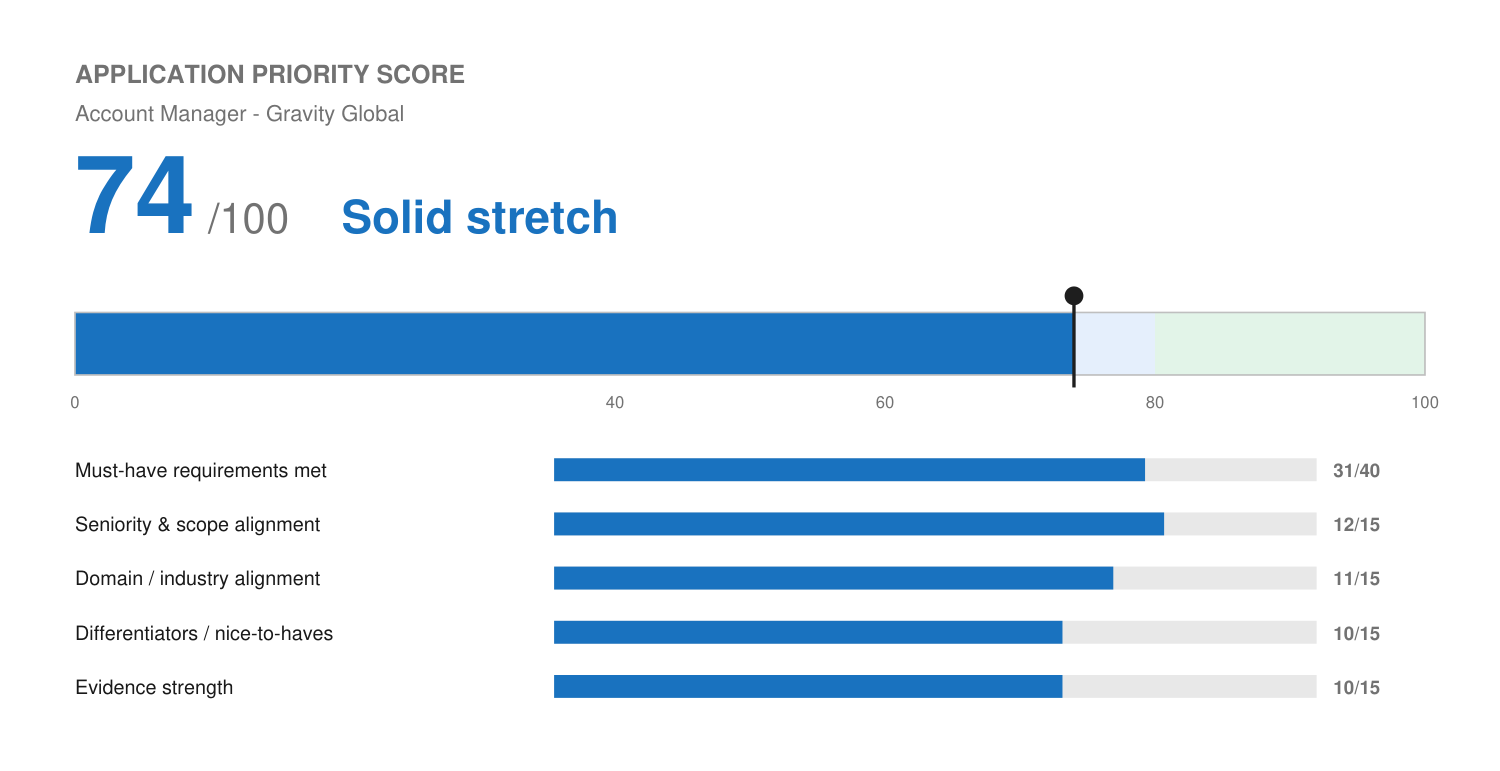
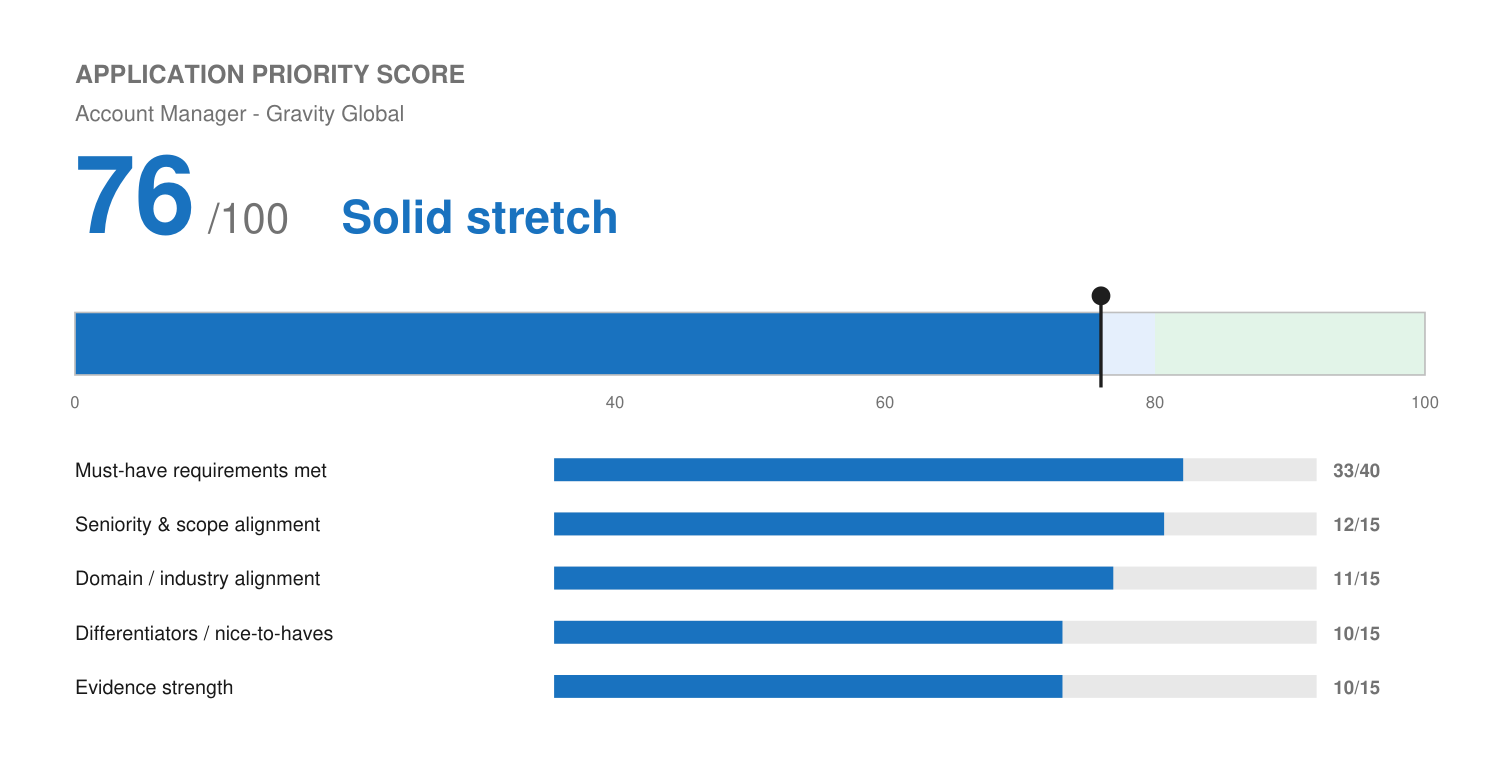
Profile: confirm travel OK and proposals/SOWs at every sales role since Accelo. Gravity Global resume updated (score 76); Supermove travel item resolved
Claude-Session: https://claude.ai/code/session_01Quz1wQsVbycgj85WWSYfNT

Changed region(s): [[0.7053, 0.3735, 0.736, 0.4981], [0.092, 0.1868, 0.1227, 0.3113], [0.7667, 0.5914, 0.7973, 0.6226]]

diff --git a/applications/gravity-global-account-manager/match-report.md b/applications/gravity-global-account-manager/match-report.md
@@ -11,7 +11,7 @@
 
 | Item | Classification | Status |
 | :--- | :--- | :--- |
-| Some travel for client meetings | Application-form | **Candidate confirmation needed** (same open item as Supermove). |
+| Some travel for client meetings | Application-form | Yes, confirmed Oct 2026. |
 | Salary expectation | Application-form | Mid-level agency AM; the $75K associate baseline is a floor here, not the answer. Needs Josh's number. |
 | Work authorization | Application-form | U.S. citizen, no sponsorship. |
 | Remote US | Application-form | Colorado-compatible. |
@@ -21,14 +21,14 @@ No knockouts.
 ## Application Priority Score
 
 ```
-🟡 Application Priority Score: 74 / 100 — Solid stretch
-[███████████████░░░░░]  74%
+🟡 Application Priority Score: 76 / 100 — Solid stretch
+[███████████████░░░░░]  76%
 ```
 *Internal decision aid, not a prediction of any employer's score or decision.* See `fit.png`.
 
 | Dimension | Score | Max | Why |
 | :--- | ---: | ---: | :--- |
-| Must-have requirements met | 31 | 40 | Client-facing strategy, scopes/budgets/timelines, senior stakeholders, delegation (Wix team lead), project tools all land. "3-5 yrs agency managing integrated campaigns across digital, creative, media" is partial: Level + Fetch & Funnel are ~10 months combined; Solenzo adds ~2.5 yrs of agency-style client work, but solo, not leading an agency account team with creative/media departments. |
+| Must-have requirements met | 33 | 40 | Travel and proposals/SOWs confirmed Oct 2026. Client-facing strategy, scopes/budgets/timelines, senior stakeholders, delegation (Wix team lead), project tools all land. "3-5 yrs agency managing integrated campaigns across digital, creative, media" is partial: Level + Fetch & Funnel are ~10 months combined; Solenzo adds ~2.5 yrs of agency-style client work, but solo, not leading an agency account team with creative/media departments. |
 | Seniority & scope alignment | 12 | 15 | Mid-level AM is a natural level. |
 | Domain / industry alignment | 11 | 15 | Agency and B2B marketing yes. No brand-campaign or large-agency creative production background. |
 | Differentiators / nice-to-haves | 10 | 15 | HubSpot (bonus), Asana/Monday.com, LinkedIn ABM, Meta certified, analytics. |
@@ -48,16 +48,15 @@ No knockouts.
 | Communication, senior stakeholders | Strong | QBRs, Accelo C-suite |
 | Monday.com / Asana / Airtable; HubSpot bonus | Strong | Asana, Monday.com, HubSpot |
 | Delegation, cross-functional | Strong | Wix team of 20/8, Level internal departments |
-| Estimates & proposals | Adjacent | Solenzo retainer scoping, Accelo scoping |
+| Estimates & proposals | Strong | Proposals/SOWs at every sales role since Accelo (confirmed Oct 2026) |
 | QA / proofing | Adjacent | Copywriting and published content |
 
 ## Gaps
 - Multi-year tenure inside a full-service agency leading creative and media teams on brand campaigns.
 
 ## Candidate confirmation needed
-1. **Travel:** OK with occasional client travel?
-2. **Proposals/estimates:** have you written formal proposals or SOWs (Solenzo, Accelo, Level)? A yes strengthens a bullet.
-3. **Level Agency account load:** how many accounts and roughly what spend (already on Numbers Worth Capturing).
+1. ~~Travel~~ and ~~proposals/SOWs~~ **resolved** (both yes; added to profile and resume).
+2. **Level Agency account load:** how many accounts and roughly what spend (already on Numbers Worth Capturing).
 
 ## Output files
 - `Rotenberg Resume - Gravity Global - Account Manager.pdf` (working copies `resume.*`)

diff --git a/applications/supermove-enterprise-key-account-director/match-report.md b/applications/supermove-enterprise-key-account-director/match-report.md
@@ -12,7 +12,7 @@
 
 | Item | Classification | Status |
 | :--- | :--- | :--- |
-| Travel for onsite working sessions | Application-form | **Candidate confirmation needed.** Posting expects onsites at large customers; % not stated. |
+| Travel for onsite working sessions | Application-form | Yes, open to travel (confirmed Oct 2026). |
 | Salary expectation | Application-form | **Needs Josh's number.** Not posted; baseline $75K does not apply to a Director role. |
 | Work authorization / sponsorship | Application-form | U.S. citizen, no sponsorship. |
 | Remote USA | Application-form | Colorado-compatible. |
@@ -65,7 +65,7 @@
 ## Candidate confirmation needed
 1. **Webhooks:** have you configured webhooks (e.g., GHL or Zapier/Make/n8n webhook triggers)? Likely yes; confirm before it goes on the resume.
 2. **Voice AI agents:** have you configured or tested a voice agent (GHL Voice AI or similar)? Huge hit for this role if yes.
-3. **Onsite travel:** comfortable with periodic customer onsites?
+3. ~~Onsite travel~~ **Resolved:** yes.
 4. **Salary number** for a Director-titled, mid-level post-sale role.
 5. **Have you ever read or written an integration spec / API docs** for a client build? Good case-exercise and interview material.
 

diff --git a/profile/master-profile.md b/profile/master-profile.md
@@ -56,6 +56,14 @@
 > overqualification as a question or prep item for Josh. Note it in the score if relevant,
 > then move on.
 >
+> **Travel (confirmed by Josh, Oct 2026):** open to occasional travel for client meetings
+> and customer onsites. Not a knockout; don't re-ask.
+>
+> **Proposals, estimates, and SOWs (confirmed by Josh, Oct 2026):** has written formal
+> proposals / statements of work at every sales role from Accelo onward (Accelo, Wix,
+> Birdeye, Fetch & Funnel, Level Agency, Solenzo). Safe to name in a bullet for any of
+> those roles.
+>
 > **Non-standard schedules:** evenings, weekends, and holidays are acceptable for the right
 > role (confirmed Aug 2026 re: DCPA).
 >
